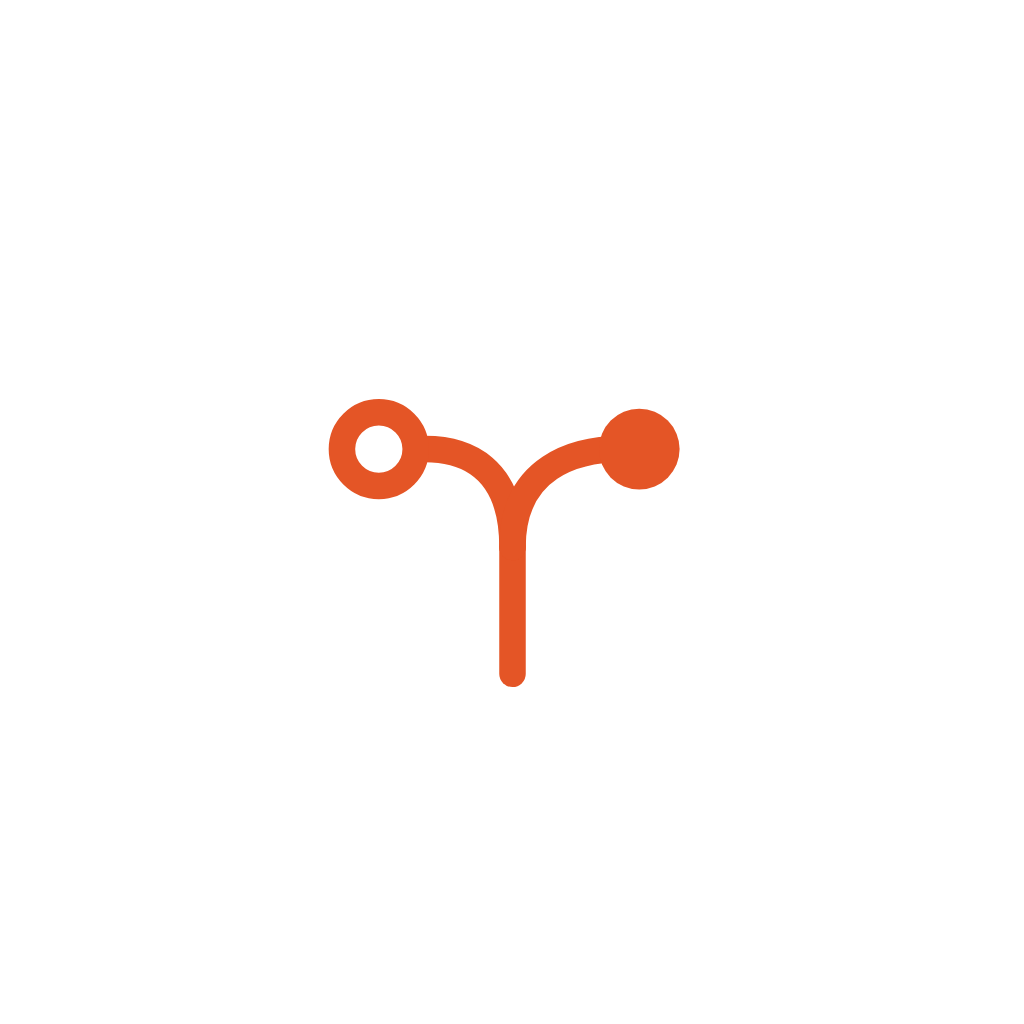
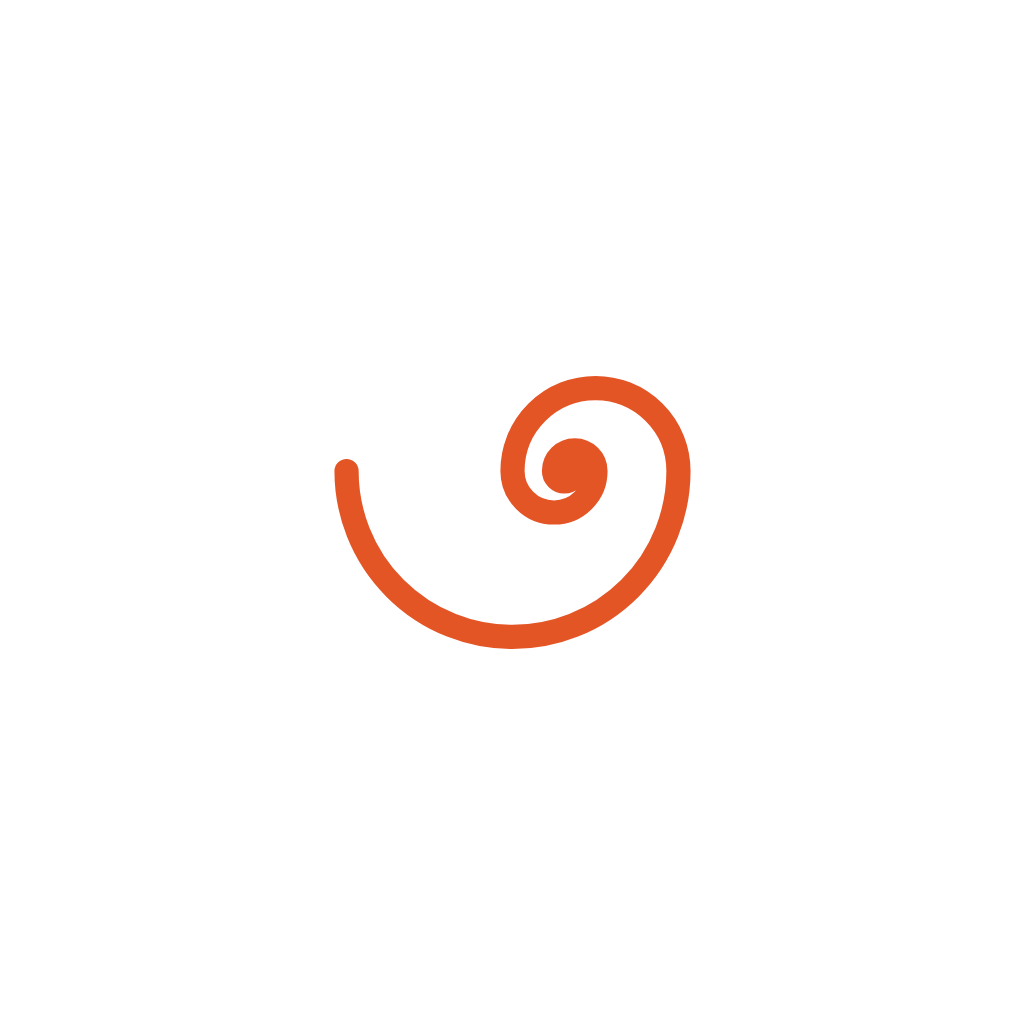
Replace the fork with the spiral
The mark is a wave seen end on now — half turns of doubling radius, 0.9
through 14.4, so each turn sits on the one before it and the curve
tightens the way a vortex does. The fork said the name and nothing about
going anywhere; this says water and motion, and it is still one stroke.

Four of the six variants went with it. single, both, unset and here had
zero uses outside vee-mark.tsx — a vocabulary for "one way taken, one
not" that nothing in the app ever spoke. primary and compact remain,
and compact is now the three outer turns at a heavier weight: the two
innermost have radii of 0.9 and 1.8 on a 40-unit grid, so under about
28px they are narrower than the stroke drawing them and the centre
silts up. Both share a bounding box, so they swap without moving.

WorkingVee turns instead of breathing. A fork has no direction to move
in, which is why it pulsed; a spiral does, and rotation is the only
motion that is about the shape rather than applied to it.

The icon generator restates the geometry because the PNGs are rasterised
by a browser, not by React Native, so it carries the same change and all
ten assets are regenerated.

app.json's description comes along, since this rebuild was already
happening — it is why that change was parked, and TODO.md loses the
entry holding it.

Fingerprint moves 0c291fd4 to 7c0e7d72: icons and app.json are both in
it, so this needs a build and a reinstall, not an update.

tsc clean, lint clean, 477 tests pass, audit steady at 21.
[…]

Changed region(s): [[0.3125, 0.3438, 0.6875, 0.6875]]

diff --git a/src/components/vee-mark.tsx b/src/components/vee-mark.tsx
@@ -1,65 +1,68 @@
 import { useEffect, useState } from 'react';
 import { AccessibilityInfo, Animated, Easing, View } from 'react-native';
-import Svg, { Circle, Defs, LinearGradient, Path, Stop } from 'react-native-svg';
+import Svg, { Defs, LinearGradient, Path, Stop } from 'react-native-svg';
 
 import { useThemeColors } from '@/lib/theme';
 
 /**
- * Wayvee's mark: a way that forks, with one branch lit. The name states the
- * geometry — way plus vee — so the product and its drawing say the same thing.
+ * Wayvee's mark: a wave seen end on, drawn as the spiral a breaking wave makes.
+ *
+ * It replaces a fork — a way that split, with one branch lit — which said the
+ * name (way plus vee) but said nothing about going anywhere. The spiral says
+ * both: it is water, and it is a thing in motion that has not finished moving.
+ *
+ * The geometry is not freehand. Each arc is a half turn whose radius doubles —
+ * 0.9, 1.8, 3.6, 7.2, 14.4 — so every turn sits on the one before it and the
+ * curve tightens the way a vortex actually does. That is also why it survives
+ * being shrunk: the relationship between turns is fixed, so the whole thing
+ * scales as one object rather than drifting out of proportion.
  *
  * One shape, two states, and the state is the whole convention:
  *   solid accent   — the app being itself. Icon, header, tab bar, plan stops.
- *   gradient       — Vee. Static where Vee is speaking, breathing where Vee is
+ *   gradient       — Vee. Static where Vee is speaking, turning where Vee is
  *                    working. Fixed hexes rather than theme tokens, because the
  *                    gradient is a mark and must read the same on paper and on
  *                    plum-black, the way an app icon does.
  *
- * The variants are the same drawing re-terminated, never new shapes, so they
- * read as one family. `compact` exists because the curves and the open ring
- * stop resolving below about 28px — every variant above that keeps the full
- * fork, and nothing that pulses is ever drawn small enough to need the swap.
+ * scripts/generate-icons.mjs restates this geometry, because the PNGs are
+ * rasterised by a browser rather than by React Native. Change the path here and
+ * run `npm run icons`, or the app and its launcher icon drift apart.
  */
 
 export type VeeVariant =
-  /** The full fork: open ring on the way not taken, filled dot on the way taken. */
+  /** Every turn. The mark wherever it has room — 28px and up. */
   | 'primary'
-  /** Straight branches, one terminal. For 28px and under — tab bar, favicon. */
-  | 'compact'
-  /** One way, no fork. A stop on the plan, a travel leg. */
-  | 'single'
-  /** Both ends filled: more than one answer qualifies. */
-  | 'both'
-  /** Dashed and open, matching the dashed-border idiom for an empty container. */
-  | 'unset'
-  /** Ring and dot: current stop, map pin, list bullet. */
-  | 'here';
+  /** The three outer turns only, at a heavier weight. For 28px and under. */
+  | 'compact';
 
 /** Marigold → coral → cobalt → marigold, the run the retired orb carried. */
 const GRADIENT_STOPS: readonly [string, string, string, string] = ['#FFC757', '#E85D2C', '#6F5BD1', '#FFC757'];
 const GRADIENT_OFFSETS: readonly [string, string, string, string] = ['0', '0.35', '0.72', '1'];
 
 /**
- * Where a branch stops and what sits at its end.
+ * The spiral, centred.
  *
- * A filled terminal swallows the branch tip, so the branch can run right into
- * its centre. An open one cannot: a tip inside the ring fills the hole, and the
- * mark reads as two dots — way taken, way taken — instead of one of each. So an
- * open terminal sits further out and its branch stops clear of the hole. The
- * two are mirrored about x=20 rather than drawn twice, which is what keeps the
- * fork symmetric when a variant changes only one side.
+ * Drawn from the inside out, its bounding box lands at x 5.6–34.4 and
+ * y 9.2–30.8 — centred on (20, 20) in the viewBox, so the mark sits level with
+ * type set beside it instead of riding low and to the left.
  */
-const FILLED_END = { branch: 10.5, control: 14.5, cx: 9, r: 3.5 };
-const OPEN_END = { branch: 12.4, control: 15.9, cx: 8.4, r: 3.2 };
-const mirror = (x: number) => 40 - x;
+const SPIRAL =
+  'M25.4 16.4 A0.9 0.9 0 0 1 23.6 16.4 A1.8 1.8 0 0 1 27.2 16.4 A3.6 3.6 0 0 1 20 16.4 A7.2 7.2 0 0 1 34.4 16.4 A14.4 14.4 0 0 1 5.6 16.4';
+
+/**
+ * The same spiral with its two innermost turns dropped.
+ *
+ * Those turns have radii of 0.9 and 1.8 on a 40-unit grid: under about 28px
+ * they are thinner than the stroke drawing them, so they fill in and the centre
+ * becomes a blot. Starting at the third turn keeps an open middle, and the
+ * bounding box is identical — the turns that set it are still here — so compact
+ * and primary occupy exactly the same space and can be swapped mid-layout.
+ */
+const SPIRAL_COMPACT = 'M27.2 16.4 A3.6 3.6 0 0 1 20 16.4 A7.2 7.2 0 0 1 34.4 16.4 A14.4 14.4 0 0 1 5.6 16.4';
 
 const DEFAULT_STROKE: Record<VeeVariant, number> = {
-  primary: 2.3,
-  compact: 2.9,
-  single: 2.4,
-  both: 2.3,
-  unset: 2.1,
-  here: 2.4,
+  primary: 2.1,
+  compact: 3,
 };
 
 let gradientSeq = 0;
@@ -85,9 +88,6 @@ export function VeeMark({
   const [gradientId] = useState(() => `veeGradient${(gradientSeq += 1)}`);
   const paint = gradient ? `url(#${gradientId})` : (color ?? colors.accent);
   const sw = strokeWidth ?? DEFAULT_STROKE[variant];
-  const dash = variant === 'unset' ? '3 3' : undefined;
-  const left = variant === 'both' ? FILLED_END : OPEN_END;
-  const right = variant === 'unset' ? OPEN_END : FILLED_END;
 
   return (
     <Svg width={size} height={size} viewBox="0 0 40 40" fill="none">
@@ -100,73 +100,32 @@ export function VeeMark({
           </LinearGradient>
         </Defs>
       ) : null}
-      {variant === 'here' ? (
-        <>
-          <Circle cx="20" cy="20" r="11" stroke={paint} strokeWidth={sw} fill="none" />
-          <Circle cx="20" cy="20" r="5" fill={paint} />
-        </>
-      ) : variant === 'compact' ? (
-        <>
-          <Path d="M20 35 V 26" stroke={paint} strokeWidth={sw} strokeLinecap="round" />
-          <Path d="M20 26 L 10.5 16.5" stroke={paint} strokeWidth={sw} strokeLinecap="round" />
-          <Path d="M20 26 L 29 17" stroke={paint} strokeWidth={sw} strokeLinecap="round" />
-          <Circle cx="30.5" cy="15.5" r="3.7" fill={paint} />
-        </>
-      ) : variant === 'single' ? (
-        <>
-          <Path d="M14 34 V 26" stroke={paint} strokeWidth={sw} strokeLinecap="round" />
-          <Path d="M14 26 C 14 17, 21 15, 26 15" stroke={paint} strokeWidth={sw} strokeLinecap="round" fill="none" />
-          <Circle cx="28.5" cy="15" r="3.4" fill={paint} />
-        </>
-      ) : (
-        <>
-          <Path d="M20 34 V 23" stroke={paint} strokeWidth={sw} strokeLinecap="round" strokeDasharray={dash} />
-          <Path
-            d={`M20 23 C 20 16, ${left.control} 14.5, ${left.branch} 14.5`}
-            stroke={paint}
-            strokeWidth={sw}
-            strokeLinecap="round"
-            fill="none"
-            strokeDasharray={dash}
-          />
-          <Path
-            d={`M20 23 C 20 16, ${mirror(right.control)} 14.5, ${mirror(right.branch)} 14.5`}
-            stroke={paint}
-            strokeWidth={sw}
-            strokeLinecap="round"
-            fill="none"
-            strokeDasharray={dash}
-          />
-          {variant === 'both' ? (
-            <Circle cx={left.cx} cy="14.5" r={left.r} fill={paint} />
-          ) : (
-            <Circle cx={left.cx} cy="14.5" r={left.r} stroke={paint} strokeWidth={sw} fill="none" />
-          )}
-          {variant === 'unset' ? (
-            <Circle cx={mirror(right.cx)} cy="14.5" r={right.r} stroke={paint} strokeWidth={sw} fill="none" />
-          ) : (
-            <Circle cx={mirror(right.cx)} cy="14.5" r={right.r} fill={paint} />
-          )}
-        </>
-      )}
+      <Path
+        d={variant === 'compact' ? SPIRAL_COMPACT : SPIRAL}
+        stroke={paint}
+        strokeWidth={sw}
+        strokeLinecap="round"
+        fill="none"
+      />
     </Svg>
   );
 }
 
 /**
- * The mark while Vee is working: the full fork in gradient, breathing.
+ * The mark while Vee is working: the spiral in gradient, turning.
  *
- * Used for the launch screen and anywhere the app is waiting on something it
- * cannot yet show. Never the compact variant — a pulsing mark is always large
- * enough for the fork, since loading is never a tab icon. Honours the OS
- * reduce-motion setting by simply holding still, the same contract the orb it
- * replaces had.
+ * It used to breathe — scale and opacity — because a fork has no direction to
+ * move in. A spiral does, and turning is the only motion it can make that is
+ * about the shape rather than applied to it. One revolution every seven
+ * seconds: present enough to read as working, slow enough not to nag.
+ *
+ * Honours the OS reduce-motion setting by simply holding still, the same
+ * contract the orb it replaces had.
  */
 export function WorkingVee({ size = 66 }: { size?: number }) {
   // useState rather than useRef: an Animated.Value read during render is a ref
   // access, and this one is read straight into the style below.
-  const [scale] = useState(() => new Animated.Value(1));
-  const [opacity] = useState(() => new Animated.Value(1));
+  const [turn] = useState(() => new Animated.Value(0));
 
   useEffect(() => {
     let mounted = true;
@@ -175,16 +134,14 @@ export function WorkingVee({ size = 66 }: { size?: number }) {
     void AccessibilityInfo.isReduceMotionEnabled().then((reduceMotion) => {
       if (!mounted || reduceMotion) return;
       loop = Animated.loop(
-        Animated.sequence([
-          Animated.parallel([
-            Animated.timing(scale, { toValue: 1.085, duration: 900, easing: Easing.inOut(Easing.quad), useNativeDriver: true }),
-            Animated.timing(opacity, { toValue: 0.86, duration: 900, easing: Easing.inOut(Easing.quad), useNativeDriver: true }),
-          ]),
-          Animated.parallel([
-            Animated.timing(scale, { toValue: 1, duration: 900, easing: Easing.inOut(Easing.quad), useNativeDriver: true }),
-            Animated.timing(opacity, { toValue: 1, duration: 900, easing: Easing.inOut(Easing.quad), useNativeDriver: true }),
-          ]),
-        ]),
+        Animated.timing(turn, {
+          toValue: 1,
+          duration: 7000,
+          // Linear: an eased revolution reads as hesitating, and this one never
+          // arrives anywhere, so there is nothing for an ease to express.
+          easing: Easing.linear,
+          useNativeDriver: true,
+        }),
       );
       loop.start();
     });
@@ -193,11 +150,13 @@ export function WorkingVee({ size = 66 }: { size?: number }) {
       mounted = false;
       loop?.stop();
     };
-  }, [scale, opacity]);
+  }, [turn]);
+
+  const rotate = turn.interpolate({ inputRange: [0, 1], outputRange: ['0deg', '360deg'] });
 
   return (
     <View accessibilityRole="image" accessibilityLabel="Vee is working" style={{ width: size, height: size }}>
-      <Animated.View style={{ transform: [{ scale }], opacity }}>
+      <Animated.View style={{ transform: [{ rotate }] }}>
         <VeeMark size={size} variant="primary" gradient />
       </Animated.View>
     </View>

diff --git a/TODO.md b/TODO.md
@@ -82,4 +82,3 @@ Checklist derived from `docs/build-book.md` (First Edition, Jul 2026). Split int
 - [ ] Track cost-per-plan weekly (tool-calling loops can multiply model calls silently) — same `concierge_runs`/`backend:health` line covers this once real traffic exists
 - [x] Test rule-6 fallback (browsing works with AI key deliberately removed) — `src/lib/concierge/__tests__/client.test.ts` locks in null-on-every-failure-path (204 decline, invoke error, malformed payload, thrown network error) and now also retries once on a transient network throw before giving up
 - [ ] Never let model's self-rated confidence substitute for the real freshness check
-- [ ] Carry the Bay-wide description into `app.json` with the next native rebuild. `+html.tsx` and `public/manifest.json` already say "The Bay, minus the guesswork"; `app.json` still says Oakland because `description` is part of the EAS fingerprint (verified: changing it moves the hash from `0c291fd4` to `e41b165b`), so editing it alone would strand every installed build on its old runtime version. It costs nothing to change at the same time as a real native change.
